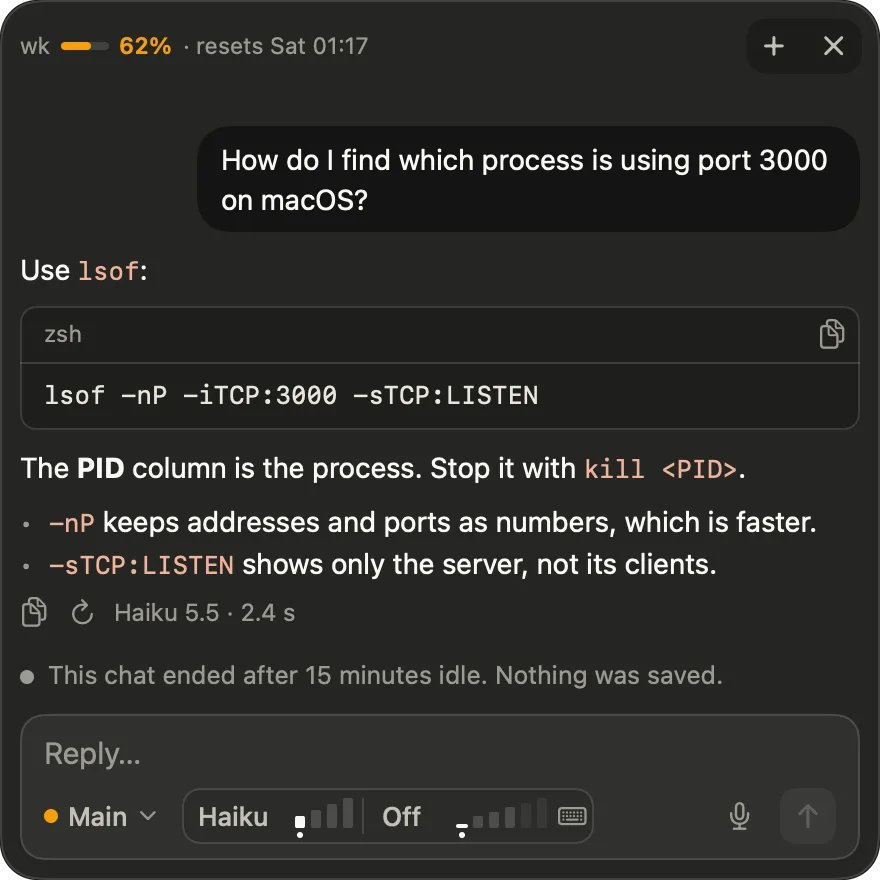
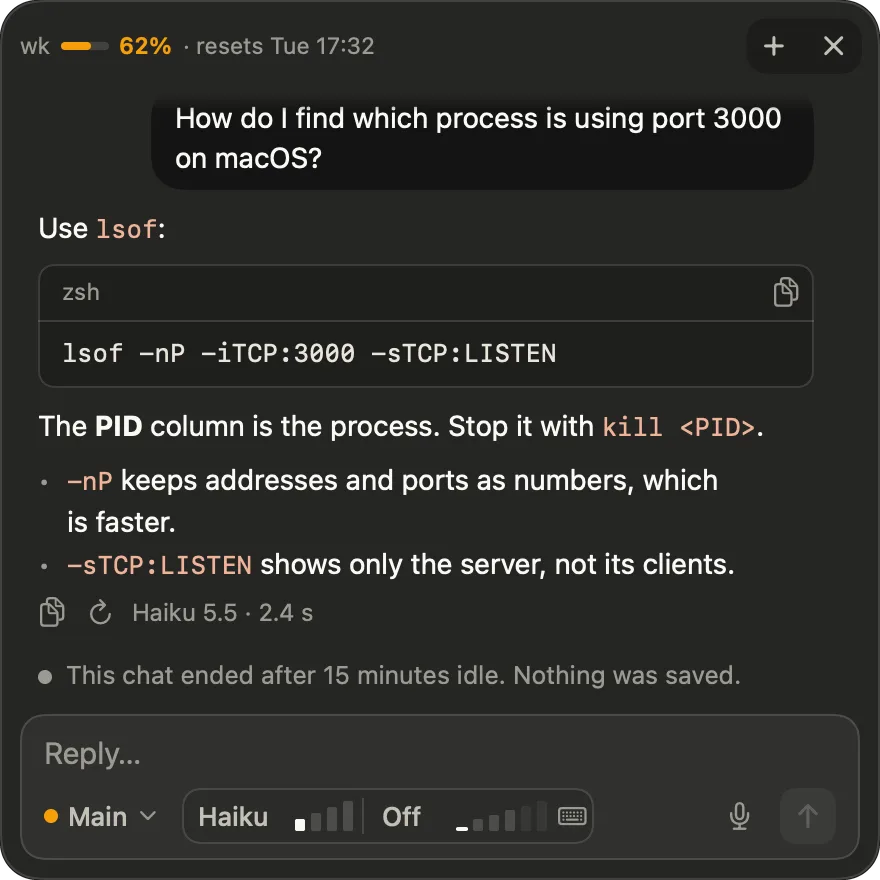
images: re-render the app pictures from cl_quick 7ad5746
Settings: General now has APP and CHAT sub-pages, so settings-shortcut shows the
APP page's three presets (⌃⇧Space picked, the new-install default) and
settings-general shows the CHAT page (Model, Thinking, Links and search,
Instructions with sample text). A blurred address is now a fixed stand-in, so
qc-full is redrawn; the step controls lost their dot, so every chat picture is.
Sample data only; crops and the render script follow the new layout.

diff --git a/scripts/prepare-images.py b/scripts/prepare-images.py
@@ -28,8 +28,8 @@ for name in ["qc-bar", "qc-typing", "qc-answer", "qc-full", "qc-ended", "qc-dict
     save(card, name)
 
 # settings crops: (left, top, right, bottom) in px of the 2x render
-BOX = {"settings-accounts": (35, 305, 1245, 992), "settings-general": (35, 368, 1245, 650),
-       "settings-shortcut": (35, 250, 1245, 358)}
+BOX = {"settings-accounts": (35, 366, 1245, 1053), "settings-general": (35, 252, 1245, 1042),
+       "settings-shortcut": (35, 252, 1245, 364)}
 for name, box in BOX.items():
     im = Image.open(os.path.join(src, name + ".png")).convert("RGBA").crop(box)
     im.putalpha(rounded_mask(im.width, im.height, 20))
